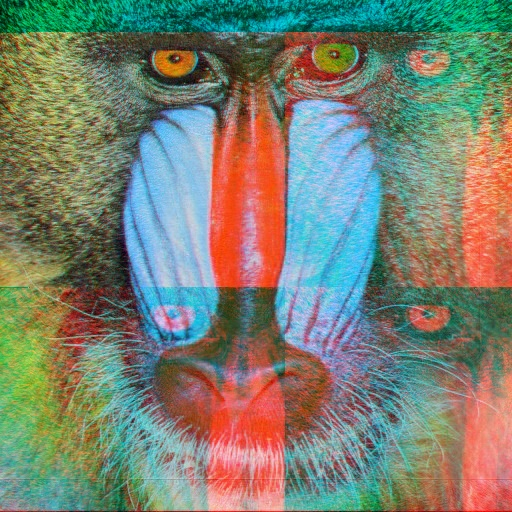
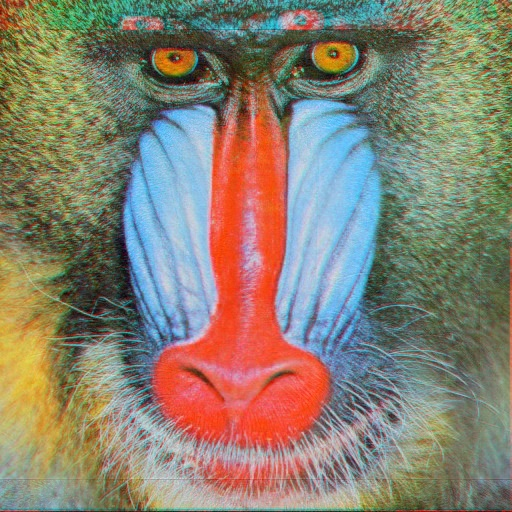
final lab 2

diff --git a/lab2/convolution/conv.cpp b/lab2/convolution/conv.cpp
@@ -16,15 +16,16 @@ int main() {
             mask.at<uchar>(a,b) = 1;
         }
     }
-    for(int y = 1; y < image.rows - 1; y++) {
-        for(int x = 1; x < image.cols - 1; x++) {
+
+    for(int x = 1; x < image.rows - 1; x++) {
+        for(int y = 1; y < image.cols - 1; y++) {
             int pixel = 0;
             for(int i = -1; i <= 1 ; i++) {
                 for(int j = -1; j<= 1; j++) {
-                    pixel += image.at<uchar>(y-i, x-j) * mask.at<uchar>(i+1,j+1);
+                    pixel += image.at<uchar>(x-i, y-j) * mask.at<uchar>(i+1,j+1);
                 }
             }
-            result.at<uchar>(y,x) = pixel/9;
+            result.at<uchar>(x,y) = pixel / 9;
         }
     }
 

diff --git a/lab2/swap1.cpp b/lab2/swap1.cpp
@@ -14,10 +14,10 @@ int main() {
       for(int x=0; x<image.rows; x++) {
           uchar pixelBlue = image.at<Vec3b>(y,x)[0];
           uchar pixelGreen = image.at<Vec3b>(y,x)[1];
-          uchar pixelRed = image.at<Vec3b>((y-32)%255,(x-32)%255)[2];
+          uchar pixelRed = image.at<Vec3b>(y,x)[2];
           image2.at<Vec3b>(y,x)[0] = pixelBlue;
           image2.at<Vec3b>(y,x)[1] = pixelGreen;
-          image2.at<Vec3b>(y,x)[2] = pixelRed;
+          image2.at<Vec3b>((y+30+image.rows)%image.rows,(x+30+image.rows)%image.rows)[2] = pixelRed;
       }
   }
   //Save thresholded image
